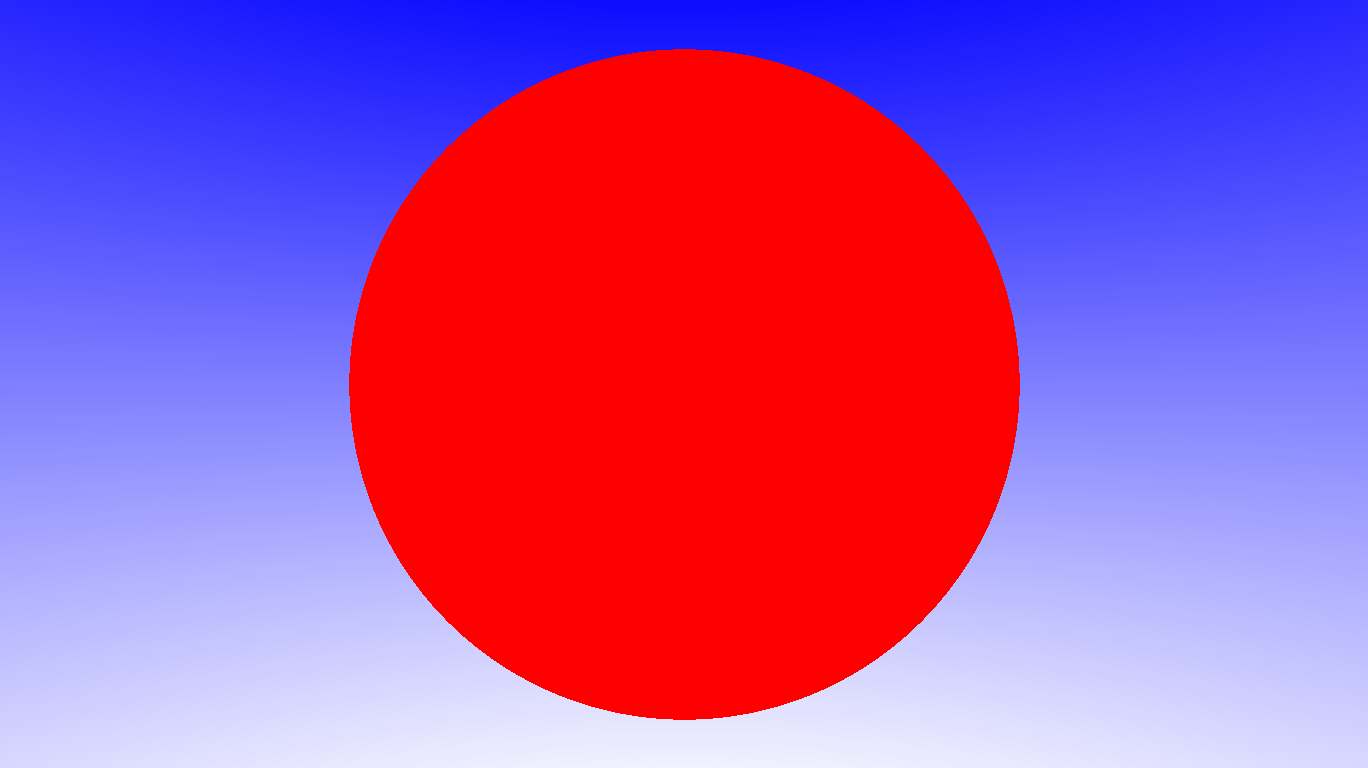
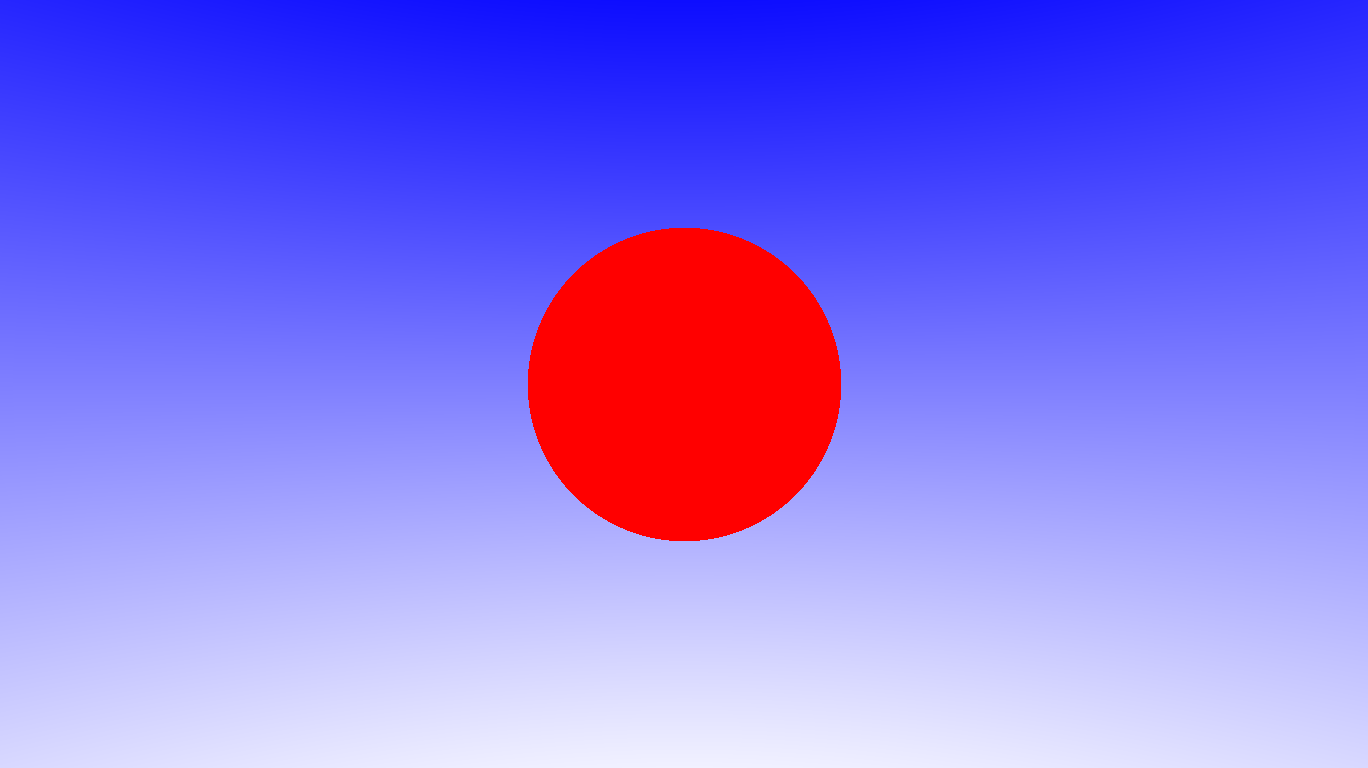
Do some refactoring of the modules

Changed region(s): [[0.2456, 0.0625, 0.7675, 0.9375]]

diff --git a/src/geometry.rs b/src/geometry.rs
@@ -1,27 +1,36 @@
+//! This module includes the implementation for geometry related things in the raytracer.
+//! The most used ones are Location and Direction
+
+/// Structure to hold information about a direction in the world.
 #[derive(Copy, Clone, Debug, PartialOrd, PartialEq)]
 pub struct Direction {
     data: [f64; 3],
 }
 
 impl Direction {
+    /// Returns the x-component
     pub fn x(&self) -> f64 {
         self.data[0]
     }
+    /// Returns the y-component
     pub fn y(&self) -> f64 {
         self.data[1]
     }
+    /// Returns the z-component
     pub fn z(&self) -> f64 {
         self.data[2]
     }
-
+    /// Returns the direction coordinates as a slice.
     pub fn as_slice(&self) -> [f64; 3] {
         self.data
     }
 
+    /// Creates a new Direction with the given direction coefficients.
     pub fn new(x: f64, y: f64, z: f64) -> Self {
         Self { data: [x, y, z] }
     }
 
+    /// Cross Product of two directions. Returns also a direction.
     pub fn cross(self, other: Self) -> Self {
         let x = self.y() * other.z() - self.z() * other.y();
         let y = self.x() * other.z() - self.z() * other.x();
@@ -30,14 +39,17 @@ impl Direction {
         Self::new(x, y, z)
     }
 
+    /// Dot Product of two directions.
     pub fn dot(self, other: Self) -> f64 {
         self.x() * other.x() + self.y() * other.y() + self.z() * other.z()
     }
 
+    /// Returns the length of the direction vector.
     pub fn length(self) -> f64 {
         (self.x().powi(2) + self.y().powi(2) + self.z().powi(2)).sqrt()
     }
 
+    /// Calculate the normalized form of the direction (Length == 1).
     pub fn norm(self) -> Self {
         self / self.length()
     }
@@ -99,6 +111,90 @@ impl std::ops::Div<f64> for Direction {
     }
 }
 
+/// Struct holds information about the position in the world
+#[derive(Copy, Clone, Debug, PartialOrd, PartialEq)]
+pub struct Location {
+    data: [f64; 3],
+}
+
+impl Location {
+    /// Returns the x-component
+    pub fn x(&self) -> f64 {
+        self.data[0]
+    }
+
+    /// Returns the x-component
+    pub fn y(&self) -> f64 {
+        self.data[1]
+    }
+
+    /// Returns the x-component
+    pub fn z(&self) -> f64 {
+        self.data[2]
+    }
+
+    /// Create new Location Object at the given coordinates
+    pub fn new(x: f64, y: f64, z: f64) -> Self {
+        Self { data: [x, y, z] }
+    }
+
+    /// Creates a new Location at the origin (0.0, 0.0, 0.0).
+    pub fn origin() -> Self {
+        Self::new(0.0, 0.0, 0.0)
+    }
+}
+
+impl std::ops::Sub for Location {
+    type Output = Direction;
+
+    fn sub(self, other: Self) -> Direction {
+        let mut data = [0.0; 3];
+
+        for ((s, o), d) in self.data.iter().zip(other.data.iter()).zip(data.iter_mut()) {
+            *d = s - o;
+        }
+
+        Direction::new(data[0], data[1], data[2])
+    }
+}
+
+impl std::ops::Add<Direction> for Location {
+    type Output = Location;
+
+    fn add(self, other: Direction) -> Self {
+        let mut data = [0.0; 3];
+
+        for ((s, o), d) in self
+            .data
+            .iter()
+            .zip(other.as_slice().iter())
+            .zip(data.iter_mut())
+        {
+            *d = s + o;
+        }
+
+        Self { data }
+    }
+}
+
+impl std::ops::Sub<Direction> for Location {
+    type Output = Location;
+
+    fn sub(self, other: Direction) -> Self {
+        let mut data = [0.0; 3];
+
+        for ((s, o), d) in self
+            .data
+            .iter()
+            .zip(other.as_slice().iter())
+            .zip(data.iter_mut())
+        {
+            *d = s - o;
+        }
+
+        Self { data }
+    }
+}
 mod test {
 
     #[test]

diff --git a/src/main.rs b/src/main.rs
@@ -1,41 +1,9 @@
 mod color;
-mod direction;
-mod location;
+mod geometry;
+mod scene;
 use color::Color;
-use direction::Direction;
-use location::Location;
-use ray::Ray;
-
-mod ray {
-    use crate::direction::Direction;
-    use crate::location::Location;
-
-    #[derive(Debug, Clone, Copy)]
-    pub struct Ray {
-        pub origin: Location,
-        pub direction: Direction,
-    }
-}
-
-mod objects {
-    use crate::location::Location;
-    use crate::ray::Ray;
-    pub struct Sphere {
-        pub origin: Location,
-        pub radius: f64,
-    }
-
-    impl Sphere {
-        /// Checks if a ray hits the sphere
-        pub fn hit_ray(&self, ray: &Ray) -> bool {
-            // From https://www.mathematik-oberstufe.de/vektoren/a/abstand-punkt-gerade-formel.html
-            let d =
-                (self.origin - ray.origin).cross(ray.direction).length() / ray.direction.length();
-            // Check if less or equal to radius --> is Hit
-            d <= self.radius
-        }
-    }
-}
+use geometry::{Direction, Location};
+use scene::*;
 
 fn main() {
     // Create a test image
@@ -50,7 +18,7 @@ fn main() {
 
         // Create a simple object
         let sphere = objects::Sphere {
-            origin: Location::new(0.5, 0.0, 0.0),
+            origin: Location::new(1.0, 0.0, 0.0),
             radius: 0.2,
         };
 
@@ -90,7 +58,7 @@ fn main() {
             };
 
             // If its a hit draw red, otherwise the background color
-            let color = if sphere.hit_ray(&ray) {
+            let color = if let Some(_) = sphere.get_hits(&ray) {
                 Color::red()
             } else {
                 let t = (ray.direction.norm().z() + 0.5) / viewport_height;

diff --git a/src/scene.rs b/src/scene.rs
@@ -1,0 +1,54 @@
+//! Objects used to describe a scene for the ray tracer.
+
+use crate::geometry::{Direction, Location};
+
+#[derive(Debug, Clone, Copy)]
+/// Desrcribes a ray
+pub struct Ray {
+    pub origin: Location,
+    pub direction: Direction,
+}
+
+/// Holding information about a hit of a ray and an object.
+pub struct Hit {}
+
+/// All Objects that interact in some way with a ray must implment this Trait
+pub trait Hittable {
+    fn get_hits(&self, ray: &Ray) -> Option<Vec<Hit>>;
+}
+
+pub mod objects {
+    use super::{Hit, Hittable, Ray};
+    use crate::geometry::*;
+
+    pub struct Sphere {
+        pub origin: Location,
+        pub radius: f64,
+    }
+
+    impl Hittable for Sphere {
+        /// Checks if a ray hits the sphere
+        fn get_hits(&self, ray: &Ray) -> Option<Vec<Hit>> {
+            // Algorithm from https://en.wikipedia.org/wiki/Line%E2%80%93sphere_intersection with the sphere transformt to origin
+
+            // Get stuff together
+            let ray_orig = ray.origin - self.origin;
+            let ray_dir = ray.direction.norm();
+            let r = self.radius;
+
+            // Calculate wether it is a hit or not
+            let d_1 = ray_dir.dot(ray_orig).powi(2);
+            let d_2 = ray_orig.length().powi(2) - r.powi(2);
+            let discriminant = d_1 - d_2;
+
+            if discriminant > 0.0 {
+                let d_3 = -ray_dir.dot(ray_orig);
+                Some(vec![Hit {}, Hit {}])
+            } else if discriminant < -0.0 {
+                None
+            } else {
+                Some(vec![Hit {}])
+            }
+        }
+    }
+}
